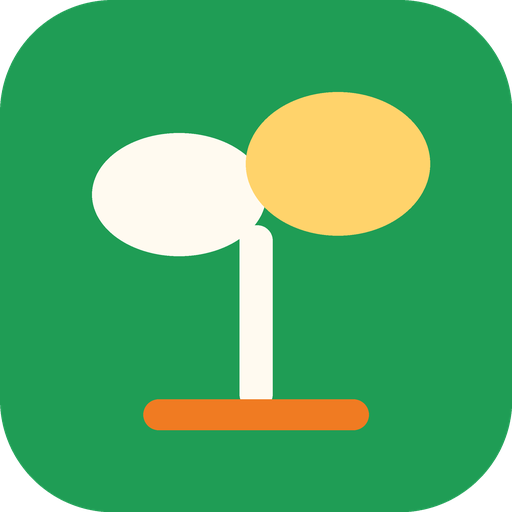
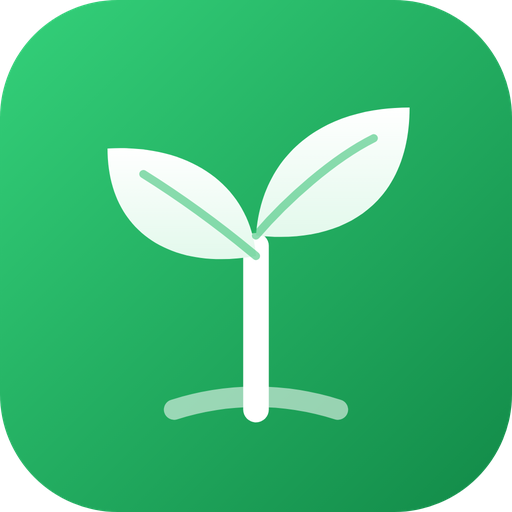
새싹 아이콘 새로 그리기 (SVG 원본 + 1024px 렌더)
Claude-Session: https://claude.ai/code/session_0127Du42XwibJtt9ztE3d8gj

diff --git a/site/sw.js b/site/sw.js
@@ -1,7 +1,7 @@
-/* 킬러들의 수학몰 서비스 워커 — 빌드할 때 20261120112151 이 바뀌어 옛 캐시를 지운다.
+/* 킬러들의 수학몰 서비스 워커 — 빌드할 때 20261120113200 이 바뀌어 옛 캐시를 지운다.
    - 페이지·목록(JSON): 네트워크 우선, 안 되면 캐시 (오프라인)
    - 문제 이미지·KaTeX·글꼴: 캐시 우선 (한 번 본 문제는 오프라인에서도 열림) */
-const V = '20261120112151';
+const V = '20261120113200';
 const SHELL = 'shell-' + V, RUN = 'run-' + V;
 const PRE = ['/', '/list.json', '/elist.json', '/jlist.json', '/cats.json', '/manifest.json', '/icon-192.png', '/icon-512.png', '/favicon-32.png', '/privacy'];
 

diff --git a/build.py b/build.py
@@ -34,16 +34,9 @@ def unit(topic):
 
 
 def icon(size, pad=0.0):
-    """초록 둥근 사각형 위 새싹(떡잎 두 장 + 줄기)"""
-    S = 4 * size; im = Image.new('RGBA', (S, S), (0, 0, 0, 0)); d = ImageDraw.Draw(im)
-    p = int(S * pad); d.rounded_rectangle((p, p, S - p, S - p), radius=int(S * .22), fill=(31, 157, 85, 255))
-    cx, k = S / 2, (S - 2 * p) / 100
-    y = lambda v: p + v * k; x = lambda v: p + v * k
-    d.rounded_rectangle((cx - 3.2 * k, y(44), cx + 3.2 * k, y(80)), radius=int(3 * k), fill='#fffaf0')
-    d.ellipse((x(18), y(26), x(52), y(50)), fill='#fffaf0')
-    d.ellipse((x(48), y(18), x(84), y(46)), fill='#ffd36b')
-    d.rounded_rectangle((x(28), y(78), x(72), y(84)), radius=int(3 * k), fill='#f07b22')
-    return im.resize((size, size), Image.LANCZOS)
+    """새싹 아이콘: src/app/icon.svg 를 1024px 로 그려 둔 PNG 를 줄여 쓴다 (pad>0 이면 마스커블용)"""
+    f = 'icon-maskable-1024.png' if pad else 'icon-1024.png'
+    return Image.open(os.path.join(ROOT, 'src', 'app', f)).convert('RGBA').resize((size, size), Image.LANCZOS)
 
 
 def blocks(html):
